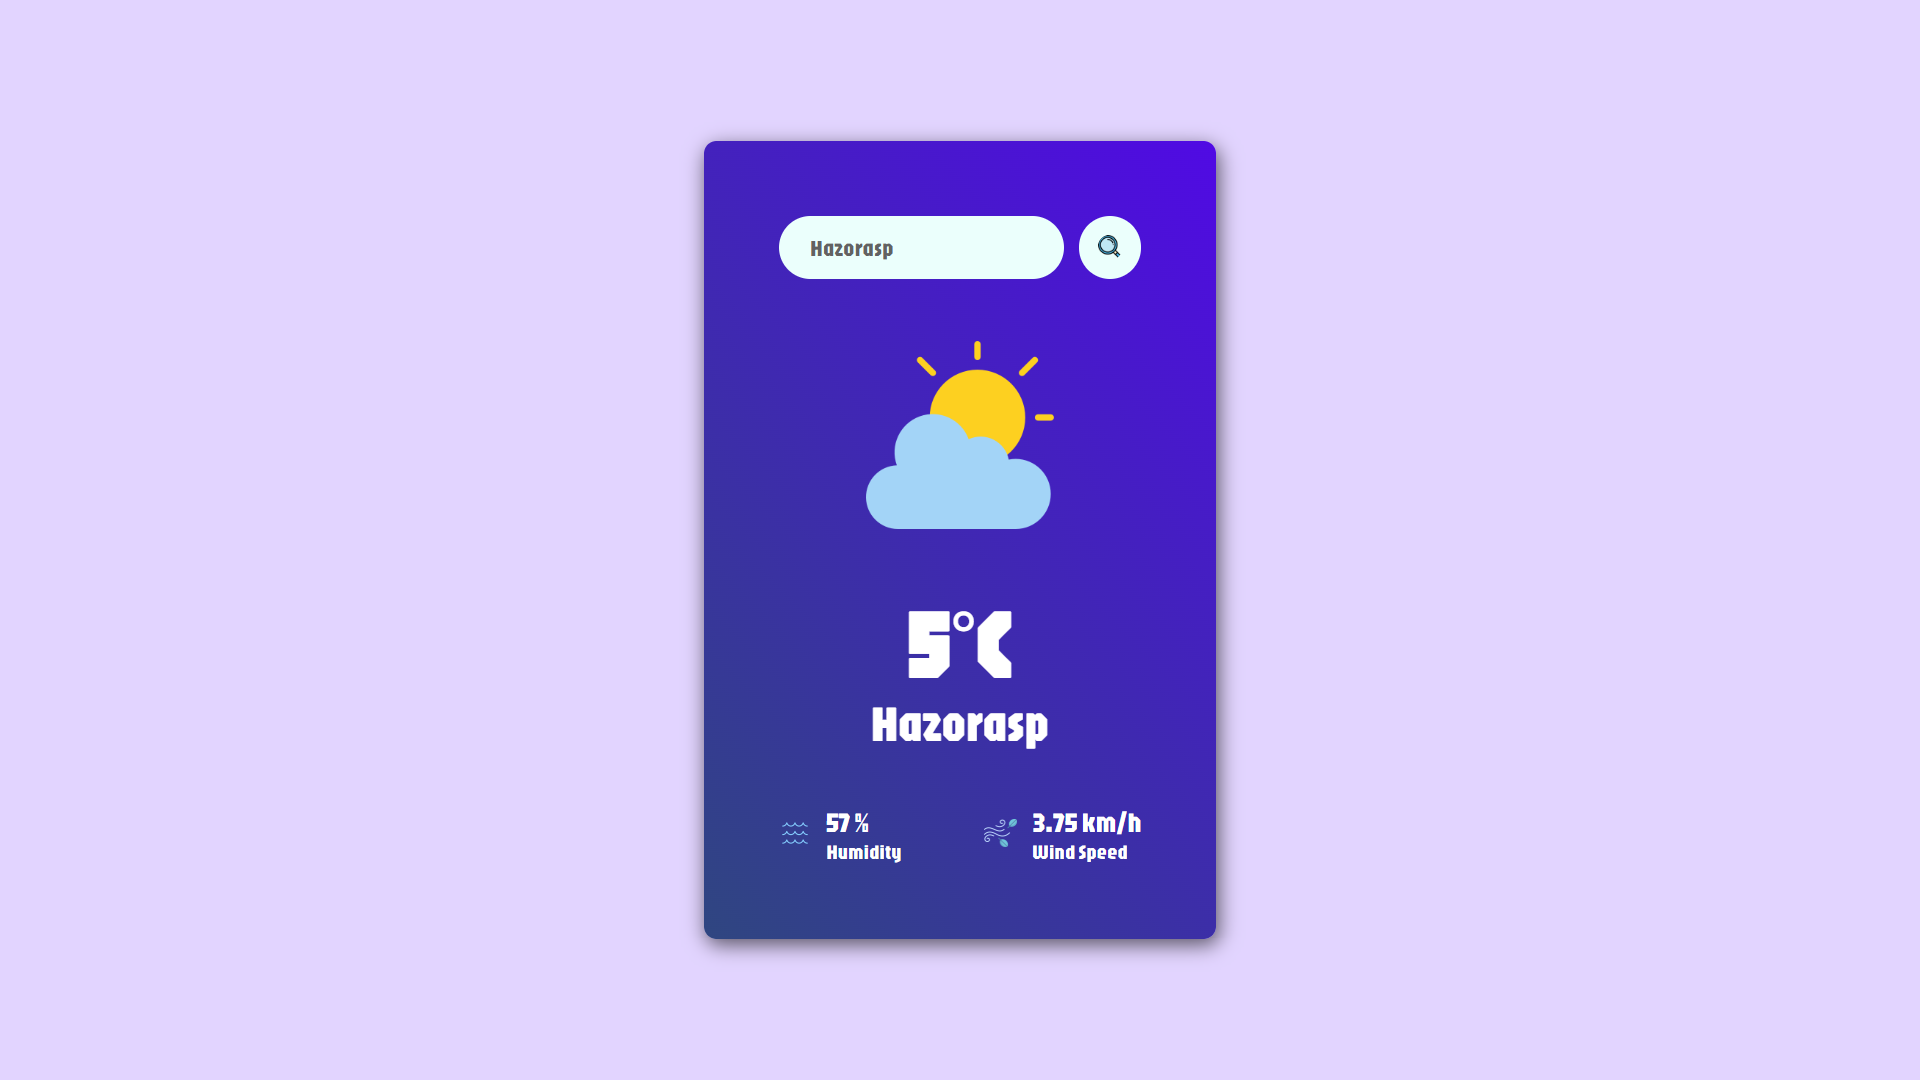
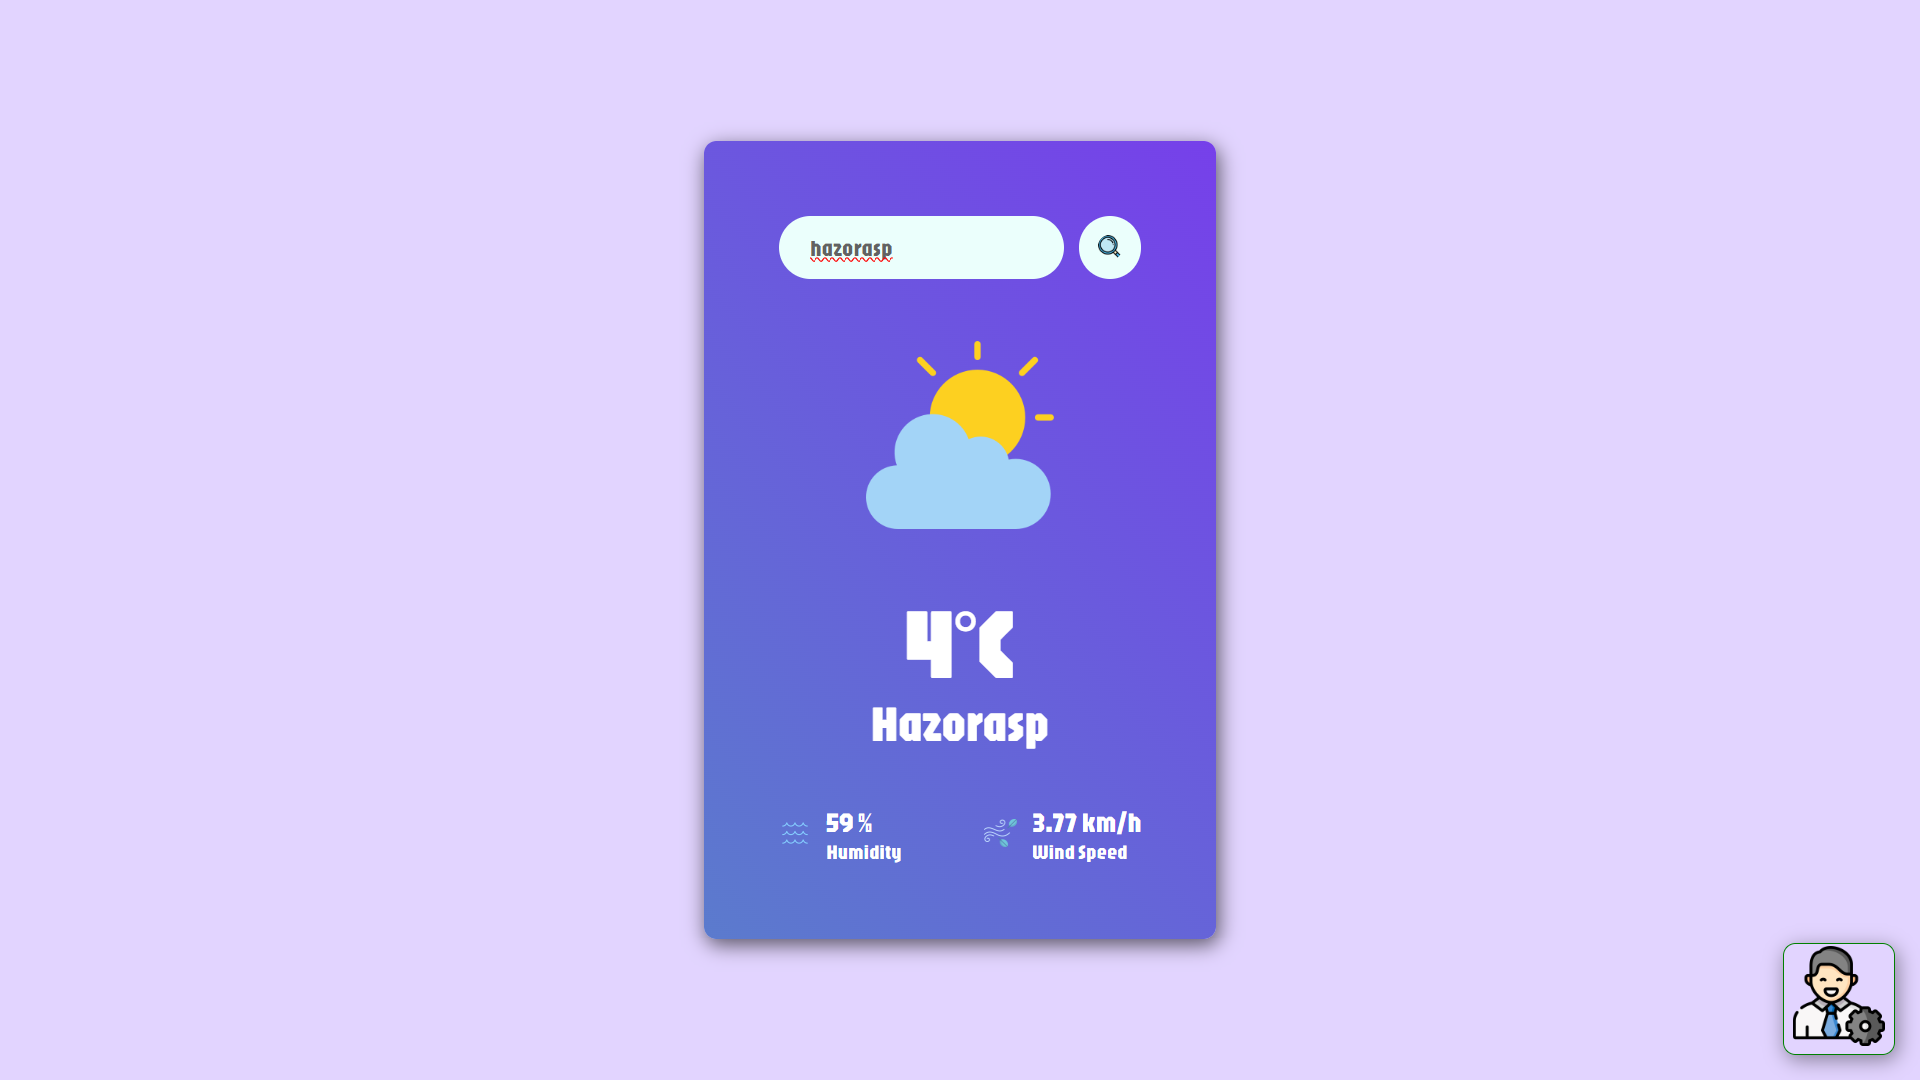
weather app

Changed region(s): [[0.3438, 0.1222, 0.6562, 0.8861], [0.9062, 0.8556, 1.0, 1.0]]

diff --git a/weather-app/src/components/weather.jsx b/weather-app/src/components/weather.jsx
@@ -8,10 +8,12 @@ import rain_icon from "../assets/rain.png";
 import search_icon from "../assets/search.png";
 import snow_icon from "../assets/snow.png";
 import wind_icon from "../assets/wind.png";
+import admin_icon from "../assets/admin.png";
 
 const Weather = () => {
   const inputRef = useRef();
   const [weatherData, setWeatherData] = useState({});
+  const [loading, setLoading] = useState(true);
 
   const allIcons = {
     "01d": clear_icon,
@@ -29,20 +31,34 @@ const Weather = () => {
     "13n": snow_icon,
   };
 
-  const search = async (city) => {
-    if (city === "") {
-      alert("Enter city name!");
+  // Qidiruv funksiyasi
+  const search = async (query, type = "city") => {
+    if (!query) {
+      alert("Enter a city name or allow location access!");
       return;
     }
 
     try {
-      const url = `https://api.openweathermap.org/data/2.5/weather?q=${city}&units=metric&appid=${
-        import.meta.env.VITE_APP_ID
-      }`;
+      setLoading(true);
+      let url = "";
+      if (type === "city") {
+        url = `https://api.openweathermap.org/data/2.5/weather?q=${query}&units=metric&appid=${
+          import.meta.env.VITE_APP_ID
+        }`;
+      } else if (type === "coords") {
+        const { lat, lon } = query;
+        url = `https://api.openweathermap.org/data/2.5/weather?lat=${lat}&lon=${lon}&units=metric&appid=${
+          import.meta.env.VITE_APP_ID
+        }`;
+      }
+
       const response = await fetch(url);
       const data = await response.json();
-      console.log(data);
+
+      if (data.cod !== 200) throw new Error(data.message);
+
       const icon = allIcons[data.weather?.[0]?.icon] || clear_icon;
+
       setWeatherData({
         humidity: data.main?.humidity || 0,
         windSpeed: data.wind?.speed || 0,
@@ -52,47 +68,90 @@ const Weather = () => {
       });
     } catch (error) {
       console.error("Error fetching weather data:", error);
+      setWeatherData(false);
+    } finally {
+      setLoading(false);
     }
   };
 
+  // Jonli joylashuvni olish uchun geolokatsiya API
   useEffect(() => {
-    search("London");
+    navigator.geolocation.getCurrentPosition(
+      (position) => {
+        const { latitude: lat, longitude: lon } = position.coords;
+        search({ lat, lon }, "coords");
+      },
+      (error) => {
+        console.error("Geolocation error:", error);
+        search("Tashkent", "city"); // Fallback joylashuv
+      },
+      { enableHighAccuracy: true, timeout: 10000, maximumAge: 0 }
+    );
   }, []);
 
+  // Enter tugmasi bilan qidiruvni ishga tushirish
+  const handleKeyDown = (event) => {
+    if (event.key === "Enter") {
+      search(inputRef.current.value, "city");
+    }
+  };
+
   return (
-    <div className="weather">
-      <div className="search-bar">
-        <input ref={inputRef} type="text" placeholder="Search" />
-        <img
-          src={search_icon}
-          alt="Search"
-          onClick={() => search(inputRef.current.value)}
-        />
-      </div>
-      <img
-        src={weatherData.icon || clear_icon}
-        alt="Weather Icon"
-        className="weather-icon"
-      />
-      <p className="temperature">{weatherData.temperature || 0}°C</p>
-      <p className="location">{weatherData.location || "Unknown Location"}</p>
-      <div className="weather-data">
-        <div className="col">
-          <img src={humidity_icon} alt="Humidity" />
-          <div>
-            <p>{weatherData.humidity || 0} %</p>
-            <span>Humidity</span>
-          </div>
+    <>
+      <div className="weather">
+        <div className="search-bar">
+          <input
+            ref={inputRef}
+            type="text"
+            placeholder="Search"
+            onKeyDown={handleKeyDown} // Enter tugmasi bosilganda ishlaydi
+          />
+          <img
+            src={search_icon}
+            alt="Search"
+            onClick={() => search(inputRef.current.value, "city")}
+          />
         </div>
-        <div className="col">
-          <img src={wind_icon} alt="Wind Speed" />
-          <div>
-            <p>{weatherData.windSpeed || 0} km/h</p>
-            <span>Wind Speed</span>
-          </div>
-        </div>
+        {loading ? (
+          <p className="loading">Loading... </p>
+        ) : weatherData ? (
+          <>
+            <img
+              src={weatherData.icon || clear_icon}
+              alt="Weather Icon"
+              className="weather-icon"
+            />
+            <p className="temperature">{weatherData.temperature || 0}°C</p>
+            <p className="location">
+              {weatherData.location || "Unknown Location"}
+            </p>
+            <div className="weather-data">
+              <div className="col">
+                <img src={humidity_icon} alt="Humidity" />
+                <div>
+                  <p>{weatherData.humidity || 0} %</p>
+                  <span>Humidity</span>
+                </div>
+              </div>
+              <div className="col">
+                <img src={wind_icon} alt="Wind Speed" />
+                <div>
+                  <p>{weatherData.windSpeed || 0} km/h</p>
+                  <span>Wind Speed</span>
+                </div>
+              </div>
+            </div>
+          </>
+        ) : (
+          <p>Error fetching data. Try again.</p>
+        )}
       </div>
-    </div>
+      <div className="admin">
+        <a href="https://t.me/the_elmurod">
+          <img src={admin_icon} alt="Not found!" />
+        </a>
+      </div>
+    </>
   );
 };
 

diff --git a/weather-app/src/components/weather.css b/weather-app/src/components/weather.css
@@ -2,7 +2,7 @@
   place-self: center;
   padding: 60px;
   border-radius: 10px;
-  background-image: linear-gradient(45deg, #2f4680, #500ae4);
+  background-image: linear-gradient(45deg, #5b7bcd, #7640ea);
   display: flex;
   flex-direction: column;
   align-items: center;
@@ -74,4 +74,31 @@
 .weather-data .col img {
     width: 26px;
     margin-top: 10px;
+}
+
+.loading {
+  color: rgb(111, 200, 225);
+  font-size: 20px;
+  padding: 30px;
+}
+
+.admin {
+  position: absolute;
+  right: 20px;
+  bottom: 20px;
+  cursor: pointer;
+  width: 90px;
+  height: 90px;
+  border: 1px solid green;
+  display: flex;
+  align-items: center;
+  justify-content: center;
+  border-radius: 10px;
+  padding: 10px;
+  box-shadow: 2px 4px 16px rgb(0,0,0, .4);
+}
+
+.admin a img {
+  width: 80px;
+  color: red;
 }

diff --git a/weather-app/index.html b/weather-app/index.html
@@ -2,7 +2,7 @@
 <html lang="en">
   <head>
     <meta charset="UTF-8" />
-    <link rel="icon" type="image/svg+xml" href="/vite.svg" />
+    <link rel="icon" type="image/svg+xml" href="" />
     <meta name="viewport" content="width=device-width, initial-scale=1.0" />
     <title>Weather App</title>
   </head>
